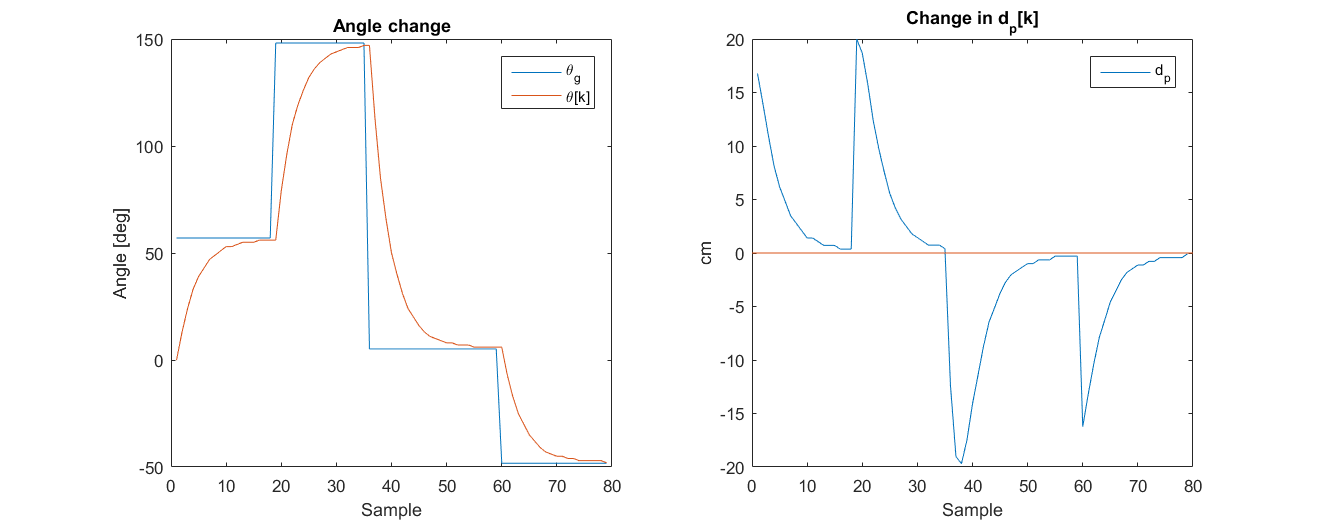
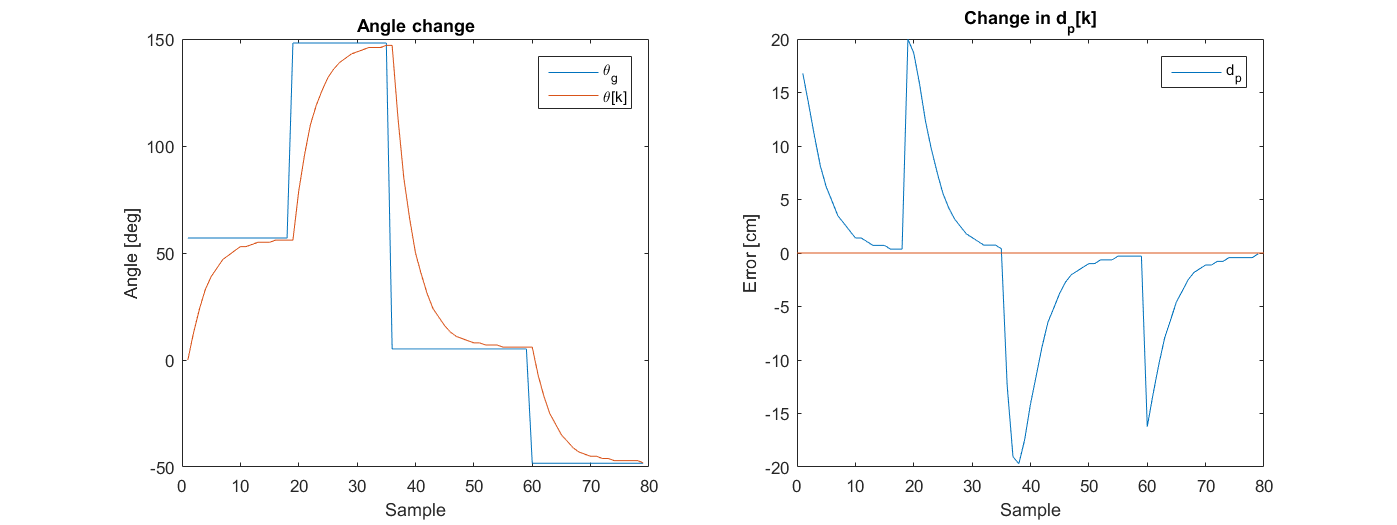
Complete for first hand in

diff --git a/Homework3/tex/main.tex b/Homework3/tex/main.tex
@@ -35,7 +35,7 @@
   \and 
   Adam Lang \\ 19861110-3956 \\ adamlang@kth.se
   \and
-  Andreas Fr�derberg \\ 19880730-7577 \\ andfro@kth.se
+  Andreas Fr\"oderberg \\ 19880730-7577 \\ andfro@kth.se
   \and
   }
 %\date{2010-10-10}             % If you want to set the date yourself.
@@ -425,40 +425,26 @@ can be seen.
 
 The difficulty comes from the delay between the computer and the
 robot. There is a certain delay between when the user presses the button
-and the robot responds. 
+and the robot responds.
+
 \section*{Task 22}
-The controller worked as it should in the simulations but did not work when implemented in the physical system. More precisely, the rotational controller worked when implemented but when the system switched state to the line following part, it did not work. The simulation results when following the track have been presented in Figure~\ref{fig:task19_cont} and for the sake of completeness, the experimental results are displayed, though they do not contribute to the controller evaluation. The group hypothesize that the controller might be flawed but working during ideal conditions but when subjected to real life disturbances, the low robustness of the controll renders the system unstable and unusable.
+The controller worked as it should in the simulations but did not work
+when implemented in the physical system. More precisely, the rotational
+controller worked when implemented but when the system switched state to
+the line following part, it did not work. The simulation results when
+following the track have been presented in Figure~\ref{fig:task19_cont}
+and for the sake of completeness, the experimental results are
+displayed in Figure~\ref{fig:task22}, though they do not contribute to the controller evaluation.
+The group hypothesize that the controller might be flawed but working
+during ideal conditions but when subjected to real life disturbances,
+the low robustness of the control renders the system unstable and
+unusable.
 
-
-
-%%%%%%%%%%%%%%%%%%%%%%%%%%%%%%%%%%%%%%%%%%%%%%%%%%%%%%%%%%%%%%%%%%%%%%%%%%%%%%%%%%%
-% The bibliography
-%%%%%%%%%%%%%%%%%%%%%%%%%%%%%%%%%%%%%%%%%%%%%%%%%%%%%%%%%%%%%%%%%%%%%%%%%%%%%%%%%%%
-%\bibliography{Bibliography_template} %Read the bibliography from a separate file
-
-\begin{thebibliography}{99}
-\bibitem[Khalil(2002)]{Khalil:2002:Nonlinear-systems:vh}
-Hassan~K Khalil.
-\newblock \emph{Nonlinear systems}.
-\newblock Prentice Hall, Upper Saddle river, 3. edition, 2002.
-\newblock ISBN 0-13-067389-7.
-
-\bibitem[Oetiker et~al.(2008)Oetiker, Partl, Hyna, and
-  Schlegl]{Oetiker:2008:TheNotSoShortIntroductiontoLaTeXe}
-Tobias Oetiker, Hubert Partl, Irene Hyna, and Elisabeth Schlegl.
-\newblock \emph{The Not So Short Introduction to \LaTeXe}.
-\newblock Oetiker, OETIKER+PARTNER AG, Aarweg 15, 4600 Olten, Switzerland,
-  2008.
-\newblock http://www.ctan.org/info/lshort/.
-
-\bibitem[Sastry(1999)]{Sastry:1999:Nonlinear-systems:-analysis-stability-and-c%
-ontrol:xr}
-Shankar Sastry.
-\newblock \emph{Nonlinear systems: analysis, stability, and control},
-  volume~10.
-\newblock Springer, New York, N.Y., 1999.
-\newblock ISBN 0-387-98513-1.
-\end{thebibliography}
-
+\begin{figure}[H]
+    \centering
+    \includegraphics[scale=0.6]{../matlab/images/task22.png}
+    \caption{The results for the robot during the lab}
+    \label{task22}
+\end{figure}
 
 \end{document}      % End of the document

diff --git a/Homework3/logPlot.m b/Homework3/logPlot.m
@@ -8,37 +8,49 @@ clear all; close all; clc;
 [time, state] = textread('log_serial_serial_serial.txt', ...
     '%f %d', 'delimiter', ';', 'headerlines',1);
 
-[timeLab, xLab, yLab, thetaLab] = textread('lablogRun2.txt', ...
+[timeLab, xLab, yLab, thetaLab] = textread('lablogRun1.txt', ...
     '%f %f %f %f', 'delimiter', ';', 'headerlines',1);
 
 [timeex16, desex16, thetaex16, dpex16] = textread('task16Log.txt', ...
     '%f %f %f %f', 'delimiter', ';', 'headerlines',1);
 
+[timeex16, dg17, dp17] = textread('task17Log.txt', ...
+    '%f %f %f', 'delimiter', ';', 'headerlines',1);
 
-plot(x,y)
-
-figure
-stairs(state)
-
+subplot(1,2,1)
+plot(dg17)
+title('Distance error propagation (d_{g})')
+ylabel('Error [cm]')
+xlabel('Sample')
+subplot(1,2,2)
+plot(dp17)
+title('Angle error propagation (d_{p})')
+ylabel('Error [cm]')
+xlabel('Sample')
+% plot(x,y)
+% 
+% figure
+% stairs(state)
+% 
 figure
 plot(xLab, yLab)
 axis([-0.5 3 -1.5 2.2])
 
-figure
-subplot(1,2,1)
-plot(desex16)
-hold on
-plot(thetaex16)
-title('Angle change')
-legend('\theta_{g}', '\theta[k]')
-ylabel('Angle [deg]')
-xlabel('Sample')
-
-subplot(1,2,2)
-plot(dpex16)
-hold on
-plot([0 80], [0 0])
-title('Change in d_{p}[k]')
-legend('d_{p}')
-ylabel('cm')
-xlabel('Sample')
+% figure
+% subplot(1,2,1)
+% plot(desex16)
+% hold on
+% plot(thetaex16)
+% title('Angle change')
+% legend('\theta_{g}', '\theta[k]')
+% ylabel('Angle [deg]')
+% xlabel('Sample')
+% 
+% subplot(1,2,2)
+% plot(dpex16)
+% hold on
+% plot([0 80], [0 0])
+% title('Change in d_{p}[k]')
+% legend('d_{p}')
+% ylabel('Error [cm]')
+% xlabel('Sample')

diff --git a/Homework3/tex/task17.tex b/Homework3/tex/task17.tex
@@ -1,0 +1,11 @@
+They differ since they now need to recalculate the angle error when the
+angle error gets to large. In Figure~\ref{fig:task17} we can see that
+$d_p$ increses when the robot starts translation, it will then need to
+correct itself on the move.
+
+\begin{figure}[H]
+    \centering
+    \includegraphics[width=\textwidth]{../matlab/images/task17.png}
+    \caption{Control performance when both controllers is activated}
+    \label{fig:task17}
+\end{figure}
